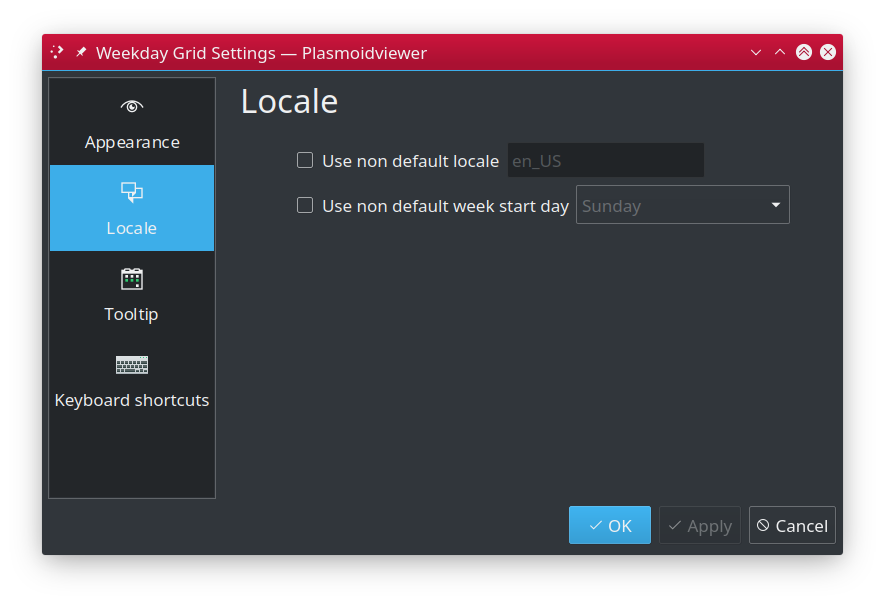
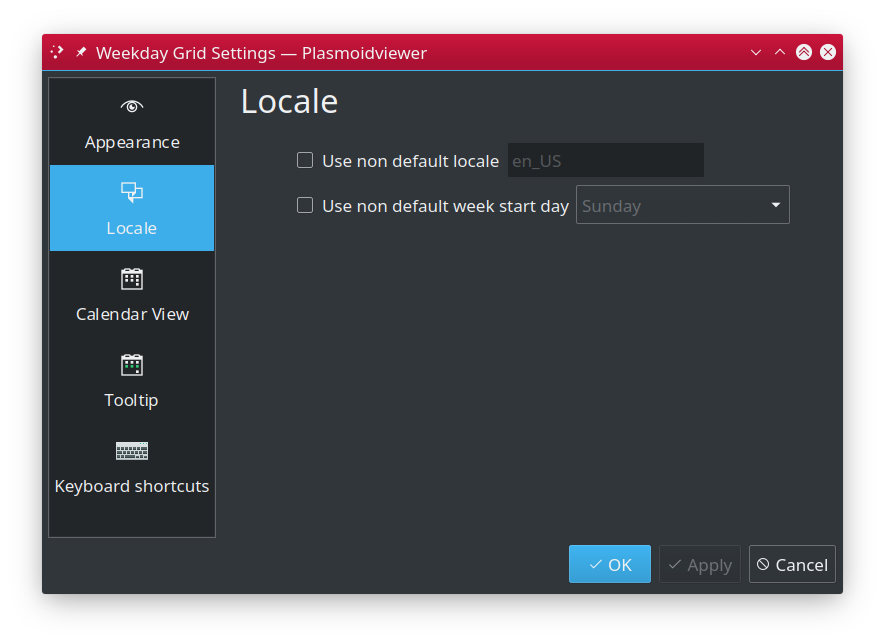
Updated documentation

diff --git a/README.md b/README.md
@@ -18,6 +18,7 @@ week days.
  * [Configuration](#configuration)
    * [Appearance](#appearance)
    * [Locale](#locale)
+   * [Calendar View](#calendar-view)
    * [Tooltip](#tooltip)
  * [Installation](#installation)
    * [Using built-in installer](#using-built-in-installer)
@@ -82,6 +83,13 @@ theme as your starting point.
  * **Use non default locale**: system wide (`C`) locale is used to construct day labels. Enable this option and specify name of installed
    locale (i.e. `en_US`) you want to be used for constructing day labels instead.
  * **Use non default week start day**: first day of the week is obtained from system or specified locale. Enable this option to set that day manually.
+
+### Calendar View ###
+
+![Locale](img/config-calendar.png)
+
+ * **Show week numbers**: specifies if popup calendar view should also show week numbers
+
 
 ### Tooltip ###
 
